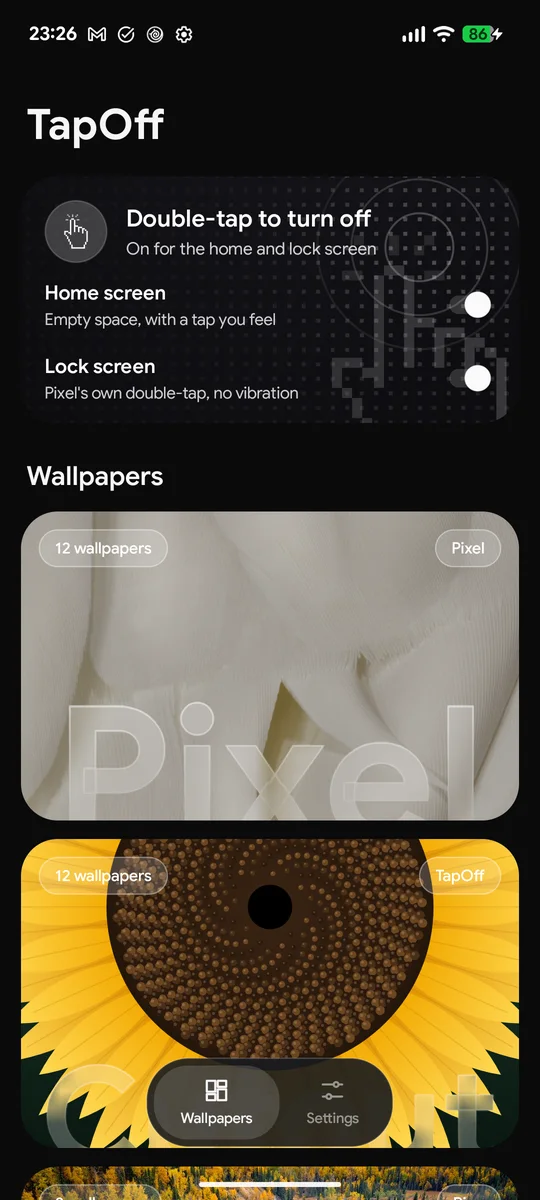
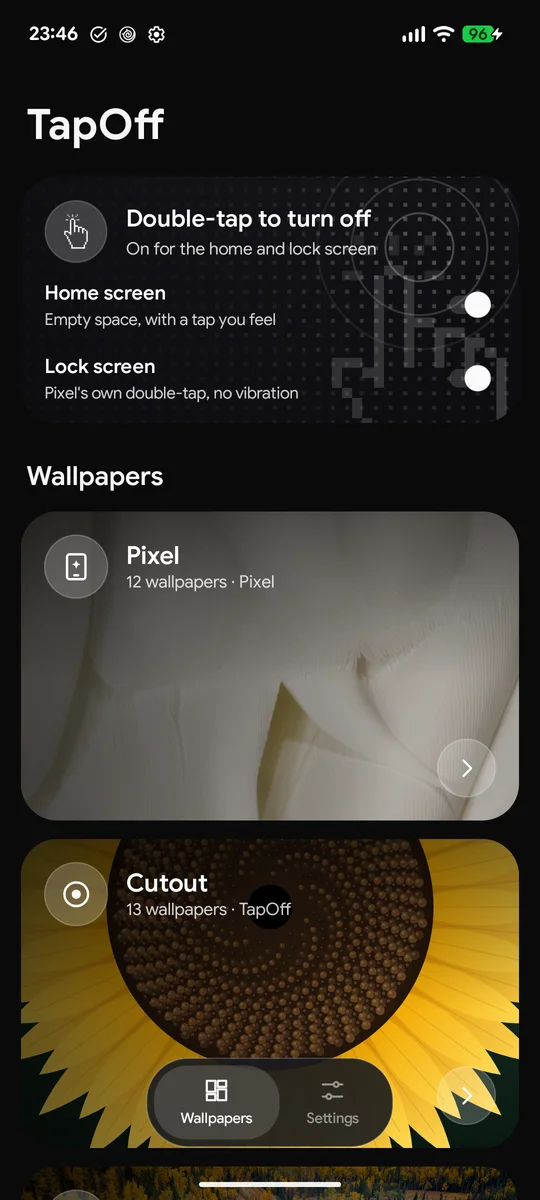
TapOff 1.4: wallpaper cards in the tile's style, Tap tap wallpaper
- Wallpaper cards now share the double-tap tile's design: full-bleed photo under
  a dark fade, glass icon chip, white title and count, glass open button.
- New Cutout wallpaper, Tap tap: the tile's LED art with the pixel hand tapping
  the camera hole.
- Website: Tap tap in the gallery, new main screenshot, no build credits.

diff --git a/site/index.html b/site/index.html
@@ -4,7 +4,7 @@
 <meta charset="utf-8">
 <meta name="viewport" content="width=device-width, initial-scale=1">
 <title>TapOff</title>
-<meta name="description" content="Double-tap to turn your Android screen off, without leaving accessibility on, so your bank apps keep working. Plus 12 wallpapers drawn around your camera hole. Free, no logins, open source.">
+<meta name="description" content="Double-tap to turn your Android screen off, without leaving accessibility on, so your bank apps keep working. Plus 13 wallpapers drawn around your camera hole. Free, no logins, open source.">
 <meta property="og:title" content="TapOff: double-tap, screen off">
 <meta property="og:description" content="The power-button fix for Android, plus wallpapers made for your camera hole. Free, no logins, no ads.">
 <meta property="og:image" content="https://tapoff.vercel.app/img/main_dark.webp">
@@ -220,7 +220,7 @@ footer { border-top: 1px solid var(--line); margin-top: 64px; padding: 28px 0 48
     <div class="store">
       <div class="shot ink"><h3>Double-tap empty space. Screen off.</h3>
         <div class="frame"><img src="img/main_dark.webp" alt="TapOff main screen in dark mode with the double-tap switches" width="540" height="1200" loading="lazy"></div></div>
-      <div class="shot sun"><h3>12 wallpapers drawn around your camera</h3>
+      <div class="shot sun"><h3>13 wallpapers drawn around your camera</h3>
         <div class="frame"><img src="img/wall/sunflower.webp" alt="Sunflower wallpaper with the camera as its centre" width="360" height="800" loading="lazy"></div></div>
       <div class="shot mint"><h3>Preview it. Set it on home and lock in one tap.</h3>
         <div class="frame"><img src="img/preview_lollipop.webp" alt="Full-screen wallpaper preview with the Set wallpaper button" width="540" height="1200" loading="lazy"></div></div>
@@ -244,7 +244,7 @@ footer { border-top: 1px solid var(--line); margin-top: 64px; padding: 28px 0 48
       <div class="card"><div class="icon"><svg viewBox="0 0 24 24" fill="none" stroke="currentColor" stroke-width="1.8" stroke-linecap="round"><path d="M4 12h2M18 12h2M8 7v10M16 7v10M12 4v16"/></svg></div>
         <h3>A tap you can feel</h3><p>A crisp haptic the moment your double-tap lands on the home screen.</p></div>
       <div class="card"><div class="icon"><svg viewBox="0 0 24 24" fill="none" stroke="currentColor" stroke-width="1.8"><circle cx="12" cy="12" r="9"/><circle cx="12" cy="12" r="3" fill="currentColor"/></svg></div>
-        <h3>Wallpapers for your camera hole</h3><p>12 designs drawn live around your real camera cutout, at your screen's exact size.</p></div>
+        <h3>Wallpapers for your camera hole</h3><p>13 designs drawn live around your real camera cutout, at your screen's exact size.</p></div>
       <div class="card"><div class="icon"><svg viewBox="0 0 24 24" fill="none" stroke="currentColor" stroke-width="1.8" stroke-linejoin="round"><rect x="3.5" y="3.5" width="7" height="9" rx="1.5"/><rect x="13.5" y="3.5" width="7" height="5" rx="1.5"/><rect x="13.5" y="11.5" width="7" height="9" rx="1.5"/><rect x="3.5" y="15.5" width="7" height="5" rx="1.5"/></svg></div>
         <h3>And plenty more wallpapers</h3><p>Pixel's own, today's Bing photo, hand-picked art, or your photo. Home and lock screen at once.</p></div>
       <div class="card"><div class="icon"><svg viewBox="0 0 24 24" fill="none" stroke="currentColor" stroke-width="1.8" stroke-linecap="round"><path d="M4 7h9M17 7h3M4 17h3M11 17h9"/><circle cx="15" cy="7" r="2"/><circle cx="9" cy="17" r="2"/></svg></div>
@@ -263,6 +263,7 @@ footer { border-top: 1px solid var(--line); margin-top: 64px; padding: 28px 0 48
       hole's shadow, the galaxy's core, the donut's hole, the pupil of the eye.</p>
     <div class="walls">
       <figure class="wall"><img src="img/wall/sunflower.webp" alt="Sunflower" width="360" height="800" loading="lazy"><figcaption>Sunflower</figcaption></figure>
+      <figure class="wall"><img src="img/wall/taptap.webp" alt="Tap tap: the pixel hand tapping the camera" width="360" height="800" loading="lazy"><figcaption>Tap tap</figcaption></figure>
       <figure class="wall"><img src="img/wall/galaxy.webp" alt="Galaxy" width="360" height="800" loading="lazy"><figcaption>Galaxy</figcaption></figure>
       <figure class="wall"><img src="img/wall/donut.webp" alt="Donut" width="360" height="800" loading="lazy"><figcaption>Donut</figcaption></figure>
       <figure class="wall"><img src="img/wall/vinyl.webp" alt="Vinyl" width="360" height="800" loading="lazy"><figcaption>Vinyl</figcaption></figure>
@@ -292,8 +293,8 @@ footer { border-top: 1px solid var(--line); margin-top: 64px; padding: 28px 0 48
         <p>Pixel has <b>no double-tap to turn the screen off</b> on the home screen. The Play Store has apps that do it, but they
           all keep an <b>accessibility service running all the time</b>, and the moment I turned one on, my banking app
           refused to open.</p>
-        <p>So I sat down with Claude and built TapOff. It works on the same idea, but it only switches accessibility on for
-          the second you double-tap, turns the screen off, and switches it right back off. Building it wasn't free for me.
+        <p>So I built TapOff. It works on the same idea, but it only switches accessibility on for the second you
+          double-tap, turns the screen off, and switches it right back off. Building it wasn't free for me.
           <b>Using it is free for you.</b></p>
         <div class="options">
           <div class="option"><h4>Home screen</h4><p>Double-tap any empty space. You feel a tap and the screen fades off.</p></div>
@@ -367,7 +368,7 @@ footer { border-top: 1px solid var(--line); margin-top: 64px; padding: 28px 0 48
   </section>
 
   <footer>
-    <span>TapOff by <a href="https://x.com/taseen_tariq_">Taseen</a>, built with Claude · MIT license</span>
+    <span>TapOff by <a href="https://x.com/taseen_tariq_">Taseen</a> · MIT license</span>
     <span><a href="https://github.com/taseen-t/tapoff">Source on GitHub</a></span>
   </footer>
 </div>

diff --git a/src/com/taseen/tapoff/GlassCard.java b/src/com/taseen/tapoff/GlassCard.java
@@ -2,7 +2,6 @@ package com.taseen.tapoff;
 
 import android.content.Context;
 import android.graphics.Bitmap;
-import android.graphics.BitmapShader;
 import android.graphics.Canvas;
 import android.graphics.LinearGradient;
 import android.graphics.Matrix;
@@ -10,44 +9,59 @@ import android.graphics.Paint;
 import android.graphics.Path;
 import android.graphics.RectF;
 import android.graphics.Shader;
-import android.graphics.Typeface;
+import android.graphics.drawable.Drawable;
 import android.view.View;
 
-// A photo card with a big frosted-glass word across its bottom edge and glass chips on top.
+// A wallpaper set's card, in the same language as the double-tap tile: the photo full-bleed under a dark fade,
+// a glass icon chip, white title and count, and a glass open button.
 final class GlassCard extends View {
     private static final float RATIO = 0.62f; // height / width
 
     private final float dp = getResources().getDisplayMetrics().density;
     private final Paint image = new Paint(Paint.FILTER_BITMAP_FLAG | Paint.ANTI_ALIAS_FLAG);
-    private final Paint glass = new Paint(Paint.ANTI_ALIAS_FLAG | Paint.FILTER_BITMAP_FLAG);
-    private final Paint tint = new Paint(Paint.ANTI_ALIAS_FLAG);
-    private final Paint edge = new Paint(Paint.ANTI_ALIAS_FLAG);
-    private final Paint chipFill = new Paint(Paint.ANTI_ALIAS_FLAG);
-    private final Paint chipLine = new Paint(Paint.ANTI_ALIAS_FLAG);
-    private final Paint chipText = new Paint(Paint.ANTI_ALIAS_FLAG);
+    private final Paint fadeLeft = new Paint(), fadeTop = new Paint();
+    private final Paint glassFill = new Paint(Paint.ANTI_ALIAS_FLAG), glassLine = new Paint(Paint.ANTI_ALIAS_FLAG);
+    private final Paint title = new Paint(Paint.ANTI_ALIAS_FLAG), sub = new Paint(Paint.ANTI_ALIAS_FLAG);
     private final Path clip = new Path();
     private final Matrix crop = new Matrix();
+    private final Drawable chevron;
     private final int placeholder;
-    private Bitmap photo, blurred;
+    private Drawable icon;
+    private Bitmap photo;
     private float dim;
-    private String word = "", left = "", right = "";
+    private String name = "", count = "";
 
     GlassCard(Context c) {
         super(c);
-        Typeface display = Typeface.create(Typeface.create("google-sans", Typeface.NORMAL), 700, false);
-        for (Paint p : new Paint[] {glass, tint, edge}) p.setTypeface(display);
-        tint.setColor(0x40FFFFFF);
-        edge.setStyle(Paint.Style.STROKE);
-        edge.setStrokeWidth(1.2f * dp);
-        chipFill.setColor(0x2EFFFFFF);
-        chipLine.setStyle(Paint.Style.STROKE);
-        chipLine.setStrokeWidth(dp);
-        chipLine.setColor(0x66FFFFFF);
-        chipText.setColor(0xFFFFFFFF);
-        chipText.setTextSize(12 * dp);
-        chipText.setTypeface(Typeface.create(Typeface.create("google-sans", Typeface.NORMAL), 500, false));
-        placeholder = Ui.dark(c) ? 0xFF1B1C20 : 0xFFE2E2E5;
+        glassFill.setColor(0x33FFFFFF);
+        glassLine.setStyle(Paint.Style.STROKE);
+        glassLine.setStrokeWidth(dp);
+        glassLine.setColor(0x3DFFFFFF);
+        title.setColor(0xFFFFFFFF);
+        title.setTextSize(19 * dp);
+        title.setTypeface(Ui.font(600));
+        sub.setColor(0xCCFFFFFF);
+        sub.setTextSize(13 * dp);
+        sub.setTypeface(Ui.font(400));
+        chevron = c.getDrawable(R.drawable.ic_chevron).mutate();
+        placeholder = Ui.dark(c) ? 0xFF1B1C20 : 0xFF2A2B30;
         setClickable(true);
+    }
+
+    void bind(String name, String count, int iconRes) {
+        this.name = name;
+        this.count = count;
+        icon = getContext().getDrawable(iconRes).mutate();
+        icon.setTint(0xFFFFFFFF);
+        setContentDescription(name + ", " + count);
+        invalidate();
+    }
+
+    void setPhoto(Bitmap b) {
+        if (b == photo) return;
+        photo = b;
+        updateCrop();
+        invalidate();
     }
 
     // Darkens the card as it sinks into the deck; opaque, so cards behind never show through.
@@ -55,28 +69,6 @@ final class GlassCard extends View {
         if (d == dim) return;
         dim = d;
         invalidate();
-    }
-
-    void bind(String word, String left, String right) {
-        this.word = word;
-        this.left = left;
-        this.right = right;
-        setContentDescription(word + ", " + left);
-        invalidate();
-    }
-
-    void setPhoto(Bitmap b) {
-        photo = b;
-        blurred = b == null ? null : blur(b);
-        updateShaders();
-        invalidate();
-    }
-
-    // Cheap blur: halve repeatedly with filtering, then let the shader scale it back up.
-    private static Bitmap blur(Bitmap b) {
-        Bitmap s = b;
-        while (s.getWidth() > 48) s = Bitmap.createScaledBitmap(s, s.getWidth() / 2, Math.max(1, s.getHeight() / 2), true);
-        return s;
     }
 
     @Override protected void onMeasure(int wSpec, int hSpec) {
@@ -87,61 +79,55 @@ final class GlassCard extends View {
     @Override protected void onSizeChanged(int w, int h, int ow, int oh) {
         clip.reset();
         clip.addRoundRect(new RectF(0, 0, w, h), 28 * dp, 28 * dp, Path.Direction.CW);
-        edge.setShader(new LinearGradient(0, h * 0.45f, 0, h, 0xB3FFFFFF, 0x00FFFFFF, Shader.TileMode.CLAMP));
-        updateShaders();
+        fadeLeft.setShader(new LinearGradient(0, 0, w * 0.75f, 0, 0x99000000, 0x00000000, Shader.TileMode.CLAMP));
+        fadeTop.setShader(new LinearGradient(0, 0, 0, h * 0.55f, 0x80000000, 0x00000000, Shader.TileMode.CLAMP));
+        updateCrop();
     }
 
-    private void updateShaders() {
-        if (photo == null || getWidth() == 0) {
-            glass.setShader(null);
-            return;
-        }
+    private void updateCrop() {
+        if (photo == null || getWidth() == 0) return;
         float s = Math.max((float) getWidth() / photo.getWidth(), (float) getHeight() / photo.getHeight());
         crop.setScale(s, s);
         crop.postTranslate((getWidth() - photo.getWidth() * s) / 2, (getHeight() - photo.getHeight() * s) / 2);
-        Matrix m = new Matrix(crop);
-        m.preScale((float) photo.getWidth() / blurred.getWidth(), (float) photo.getHeight() / blurred.getHeight());
-        BitmapShader shader = new BitmapShader(blurred, Shader.TileMode.CLAMP, Shader.TileMode.CLAMP);
-        shader.setLocalMatrix(m);
-        glass.setShader(shader);
     }
 
     @Override protected void onDraw(Canvas c) {
         int w = getWidth(), h = getHeight();
+        float pad = 18 * dp, chip = 48 * dp;
         c.save();
         c.clipPath(clip);
         if (photo != null) c.drawBitmap(photo, crop, image);
         else c.drawColor(placeholder);
+        c.drawRect(0, 0, w, h, fadeLeft);
+        c.drawRect(0, 0, w, h, fadeTop);
 
-        // The word fills the width and sinks past the bottom edge, filled with the blurred photo.
-        tint.setTextSize(100);
-        float size = 100 * (w - 28 * dp) / Math.max(1, tint.measureText(word));
-        size = Math.min(size, h * 0.62f);
-        for (Paint p : new Paint[] {glass, tint, edge}) p.setTextSize(size);
-        float x = (w - tint.measureText(word)) / 2, y = h + size * 0.12f;
-        if (photo != null) c.drawText(word, x, y, glass);
-        c.drawText(word, x, y, tint);
-        c.drawText(word, x, y, edge);
+        // Icon chip, then the name and count beside it, as on the double-tap tile.
+        float cx = pad + chip / 2, cy = pad + chip / 2;
+        c.drawCircle(cx, cy, chip / 2, glassFill);
+        c.drawCircle(cx, cy, chip / 2, glassLine);
+        if (icon != null) {
+            int is = Math.round(24 * dp);
+            icon.setBounds(Math.round(cx - is / 2f), Math.round(cy - is / 2f), Math.round(cx + is / 2f), Math.round(cy + is / 2f));
+            icon.draw(c);
+        }
+        float tx = pad + chip + 14 * dp;
+        c.drawText(name, tx, cy - 2 * dp, title);
+        c.drawText(count, tx, cy + 16 * dp, sub);
 
-        chip(c, left, 14 * dp, false);
-        chip(c, right, w - 14 * dp, true);
+        // Glass open button, bottom right.
+        float br = 22 * dp, bx = w - pad - br, by = h - pad - br;
+        c.drawCircle(bx, by, br, glassFill);
+        c.drawCircle(bx, by, br, glassLine);
+        int cs = Math.round(20 * dp);
+        chevron.setBounds(Math.round(bx - cs / 2f), Math.round(by - cs / 2f), Math.round(bx + cs / 2f), Math.round(by + cs / 2f));
+        chevron.draw(c);
+
         if (dim > 0) c.drawColor(Math.round(dim * 255) << 24);
         c.restore();
     }
 
-    private void chip(Canvas c, String text, float at, boolean alignRight) {
-        if (text.isEmpty()) return;
-        float pad = 12 * dp, ch = 28 * dp, cw = chipText.measureText(text) + 2 * pad, top = 14 * dp;
-        float l = alignRight ? at - cw : at;
-        RectF r = new RectF(l, top, l + cw, top + ch);
-        c.drawRoundRect(r, ch / 2, ch / 2, chipFill);
-        c.drawRoundRect(r, ch / 2, ch / 2, chipLine);
-        Paint.FontMetrics fm = chipText.getFontMetrics();
-        c.drawText(text, l + pad, top + ch / 2 - (fm.ascent + fm.descent) / 2, chipText);
-    }
-
     @Override public void setPressed(boolean pressed) {
         super.setPressed(pressed);
-        animate().scaleX(pressed ? 0.97f : 1f).scaleY(pressed ? 0.97f : 1f).setDuration(120).start();
+        animate().alpha(pressed ? 0.85f : 1f).setDuration(120).start();
     }
 }

diff --git a/src/com/taseen/tapoff/CutoutArt.java b/src/com/taseen/tapoff/CutoutArt.java
@@ -23,10 +23,10 @@ import java.util.Random;
 final class CutoutArt {
     static final String SCHEME = "cutout:";
     private static final String[] NAMES = {"Gargantua", "Galaxy", "Sunflower", "Vinyl", "Hole in one", "Donut",
-        "Iris", "Keyhole", "Bullseye", "Lollipop", "Neon", "Pixel pulse"};
+        "Iris", "Keyhole", "Bullseye", "Lollipop", "Neon", "Pixel pulse", "Tap tap"};
 
     // The order they're shown in; the first is the card's cover.
-    private static final int[] ORDER = {2, 1, 5, 3, 7, 10, 6, 0, 9, 8, 4, 11};
+    private static final int[] ORDER = {2, 12, 1, 5, 3, 7, 10, 6, 0, 9, 8, 4, 11};
 
     static Wallpapers.Collection collection() {
         List<Wallpapers.Item> items = new ArrayList<>();
@@ -63,6 +63,7 @@ final class CutoutArt {
             case 8: bullseye(cv, w, h, cx, cy, r); break;
             case 9: lollipop(cv, w, h, cx, cy, r); break;
             case 10: neon(cv, w, h, cx, cy, r); break;
+            case 12: tapTap(c, cv, w, h, cx, cy, r); break;
             default: pixelPulse(cv, w, h, cx, cy, r); break;
         }
         cv.drawCircle(cx, cy, r * 1.03f, fill(0xFF000000)); // the camera itself
@@ -533,6 +534,29 @@ final class CutoutArt {
         cv.drawArc(box, 20, 140, false, stroke(alpha(40, rgb), k * 34));
         cv.drawArc(box, 20, 140, false, stroke(alpha(110, rgb), k * 14));
         cv.drawArc(box, 20, 140, false, stroke(alpha(255, rgb | 0x404040), k * 5));
+    }
+
+    // The double-tap tile's art as a wallpaper: an LED grid lit by ripples from the camera, and the pixel hand
+    // tapping it.
+    private static void tapTap(Context c, Canvas cv, int w, int h, float cx, float cy, float r) {
+        float k = w / 1080f, step = k * 34, dot = k * 10, reach = h * 0.55f;
+        background(cv, w, h, 0xFF24242C, 0xFF0B0B0E);
+        Paint p = fill(0);
+        for (float y = step / 2; y < h; y += step)
+            for (float x = step / 2; x < w; x += step) {
+                float lit = Math.max(0, 1 - (float) Math.hypot(x - cx, y - cy) / reach);
+                p.setColor(alpha((int) (16 + 110 * lit * lit), 0xFFFFFF));
+                cv.drawRect(x - dot / 2, y - dot / 2, x + dot / 2, y + dot / 2, p);
+            }
+        for (int i = 1; i <= 4; i++)
+            cv.drawCircle(cx, cy, r * 1.4f + k * 70 * i, stroke(alpha(120 - i * 25, 0xFFFFFF), k * 3));
+        android.graphics.drawable.Drawable hand = c.getDrawable(R.drawable.ic_tap).mutate();
+        hand.setTint(0xFFFFFFFF);
+        hand.setAlpha(110);
+        // ic_tap's fingertip is at (0.41, 0.15) of its box; put it just under the camera.
+        int size = Math.round(w * 0.62f), left = Math.round(cx - size * 0.41f), top = Math.round(cy + r * 1.2f - size * 0.15f);
+        hand.setBounds(left, top, left + size, top + size);
+        hand.draw(cv);
     }
 
     // TapOff's own look: a dark LED wall with rings of light rippling out from the camera, as if just tapped.

diff --git a/src/com/taseen/tapoff/MainActivity.java b/src/com/taseen/tapoff/MainActivity.java
@@ -337,7 +337,7 @@ public class MainActivity extends Activity {
     private void addCard(Wallpapers.Collection col) {
         GlassCard card = new GlassCard(this);
         int n = col.items.size();
-        card.bind(col.name, n + (n == 1 ? " wallpaper" : " wallpapers"), col.source);
+        card.bind(col.name, n + (n == 1 ? " wallpaper" : " wallpapers") + " · " + col.source, cardIcon(col.name));
         card.setOnClickListener(v -> startActivity(PreviewActivity.intent(this, col, 0)));
         LinearLayout.LayoutParams lp = new LinearLayout.LayoutParams(-1, -2);
         int m = Ui.dp(this, 16);
@@ -361,6 +361,19 @@ public class MainActivity extends Activity {
                 Log.w("TapOff", "no cover for " + col.name, e);
             }
         });
+    }
+
+    private static int cardIcon(String name) {
+        switch (name) {
+            case "Pixel": return R.drawable.ic_card_pixel;
+            case "Cutout": return R.drawable.ic_card_cutout;
+            case "Today": return R.drawable.ic_card_today;
+            case "Abstract": return R.drawable.ic_card_abstract;
+            case "Minimal": return R.drawable.ic_card_minimal;
+            case "Dreamscape": return R.drawable.ic_card_dream;
+            case "Space": return R.drawable.ic_card_space;
+            default: return R.drawable.ic_grid;
+        }
     }
 
     // Cards that scroll up stack into a deck at the top: each older one sits a little higher, smaller and

diff --git a/README.md b/README.md
@@ -14,7 +14,7 @@ through a case, or just too far away. Plus a wallpaper browser with wallpapers d
   TapOff's is off all the time and switches on for about a second only while it turns the screen off.
 - **Fingerprint unlock still works** afterwards. The screen fades to black instead of flashing the lock screen.
 - **Wallpapers:** Pixel's built-in ones, today's Bing photo, hand-checked art from Wallhaven, your own photo,
-  and **Cutout**: 12 designs drawn live around your phone's camera hole (a black hole, a galaxy, a sunflower,
+  and **Cutout**: 13 designs drawn live around your phone's camera hole (a black hole, a galaxy, a sunflower,
   a record, a keyhole...). Whatever you pick goes on the home and lock screen.
 - **Quick Settings tiles** for Screen off and Volume.
 - Light, dark or follow the system.
